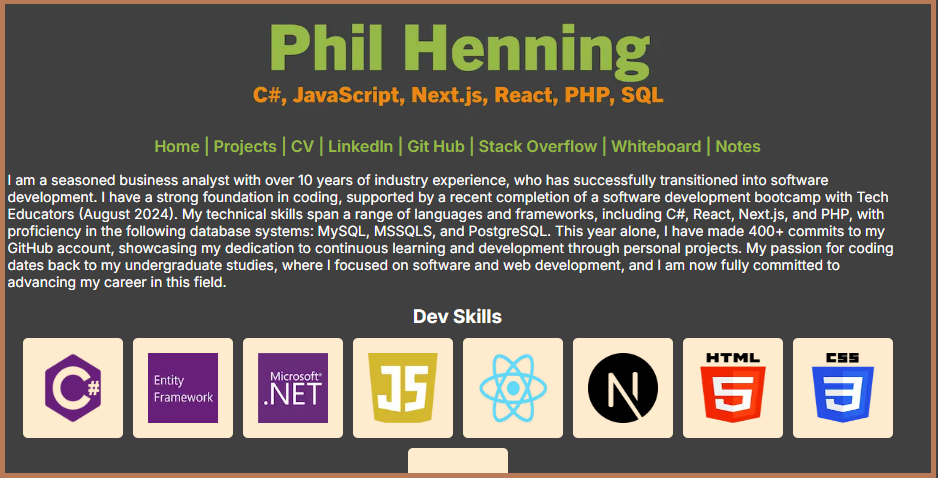
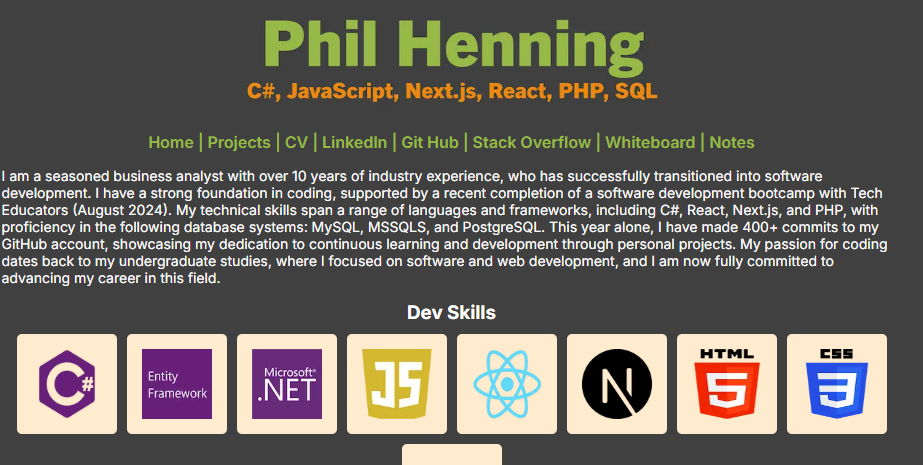
various style changes and inclusion of 'tools' and links to projects

Changed region(s): [[0.0, 0.0, 1.0, 1.0], [0.4247, 0.271, 0.8191, 0.3312], [0.1517, 0.271, 0.3944, 0.3312]]

diff --git a/src/app/(pages)/projects/page.js b/src/app/(pages)/projects/page.js
@@ -8,15 +8,21 @@ export default function Projects() {
           type="Project"
           language="Next.js"
           db="PostgreSQL"
+          projectManagementTool="Trello, "
+          whiteBoardingTool="Miro"
+          link="https://peasant.philhenning.co.uk"
           image="peasant_screenshot.png"
-          description="Built on the back of completing the Tech-Educators 'Software Development' bootcamp. Built using Next.js."
+          description="Built on the back of completing the Tech-Educators 'Software DeveloprojectManagementToolent' bootcamp. Built using Next.js."
         />
 
         <Project
           name="Race V2"
           type="Project"
-          language="C# & Entity Framework"
+          language="C#, Entity Framework"
           db="MSQLS"
+          projectManagementTool="Trello, "
+          whiteBoardingTool="Miro"
+          link=""
           image="car_race_screenshot.png"
           description="This has become my first 'real' C# project, and I am using it as a means of implementing things that I have learned.
 
@@ -28,7 +34,10 @@ export default function Projects() {
           name="C# Fundamentals (Pluralsight)"
           type="Course"
           language="C#"
-          db="none"
+          db=""
+          projectManagementTool=""
+          whiteBoardingTool=""
+          link=""
           image="c_sharp_fundamentals_screenshot.png"
           description="A tutorial that consisted of 11 lessons.
 
@@ -43,7 +52,10 @@ export default function Projects() {
           name="Race V1"
           type="Project"
           language="C#"
-          db="none"
+          db=""
+          projectManagementTool=""
+          whiteBoardingTool=""
+          link=""
           image="car_race_screenshot.png"
           description="This was the first incarnation of the 'Race' project."
         />
@@ -52,7 +64,10 @@ export default function Projects() {
           name="Workout"
           type="Project"
           language="C#"
-          db="none"
+          db=""
+          projectManagementTool=""
+          whiteBoardingTool=""
+          link=""
           image="workout_screenshot.png"
           description="	My first attempt at creating a project to solve a simple problem.
 
@@ -64,8 +79,11 @@ export default function Projects() {
         <Project
           name="C# for beginners (Bro Code)"
           type="Course"
-          language="C'"
-          db="none"
+          language="C#"
+          db=""
+          projectManagementTool=""
+          whiteBoardingTool=""
+          link=""
           image="brocode_screenshot.png"
           description="	A tutorial that consists of 50 lessons.
 
@@ -78,6 +96,9 @@ export default function Projects() {
           type="Proof of concept"
           language="PHP, HTML, CSS"
           db="MySQL"
+          projectManagementTool="Trello, "
+          whiteBoardingTool=""
+          link="http://treedata.co.uk"
           image="treedata_screenshot.png"
           description="This is a current Proof Of Concept for a commercial client (although undertaken without recompense).
 
@@ -89,7 +110,10 @@ export default function Projects() {
           name="philhenning.co.uk"
           type="Project"
           language="Next.js, HTML, CSS"
-          db="none"
+          db=""
+          projectManagementTool="Trello, "
+          whiteBoardingTool="Miro "
+          link=""
           image="philhenning_screenshot.png"
           description="The site you are currently looking at is a project of mine that I am still regularly working on."
         />
@@ -99,8 +123,11 @@ export default function Projects() {
           type="Project"
           language="PHP, HTML, CSS"
           db="MySQL"
+          projectManagementTool=""
+          whiteBoardingTool=""
+          link="https://snowcompare.philhenning.co.uk"
           image="snowcompare_screenshot.png"
-          description="This was my first piece of web development coursework at university. Primarily made to showcase my development skills."
+          description="This was my first piece of web developrojectManagementToolent coursework at university. Primarily made to showcase my developrojectManagementToolent skills."
         />
 
         <Project
@@ -108,8 +135,11 @@ export default function Projects() {
           type="Project"
           language="PHP, HTML, CSS"
           db="MySQL"
+          projectManagementTool=""
+          whiteBoardingTool=""
+          link="https://snowcompareshop.philhenning.co.uk"
           image="snowcompare_shop_screenshot.png"
-          description="This was my second piece of web development coursework at university. Building upon the first project above, the purpose of this project was to focus on an 'e-commerce' back-end."
+          description="This was my second piece of web developrojectManagementToolent coursework at university. Building upon the first project above, the purpose of this project was to focus on an 'e-commerce' back-end."
         />
 
         <Project
@@ -117,6 +147,9 @@ export default function Projects() {
           type="Proof of concept"
           language="PHP, HTML. CSS"
           db="MySQL"
+          projectManagementTool=""
+          whiteBoardingTool=""
+          link=""
           image="points_academy_screenshot.png"
           description=""
         />
@@ -126,6 +159,9 @@ export default function Projects() {
           type="Proof of concept"
           language="PHP, HTML, CSS"
           db="MySQL"
+          projectManagementTool=""
+          whiteBoardingTool=""
+          link=""
           image="portal_screenshot.png"
           description="Initially conceived as a short-term tool to help a brand new sales team get up to speed with learning the particulars of various products. It subsequently evolved into a more substantial long-term tool that was regularly used. This first iteration was purely static. The next iteration (SimplePortal System - see below) would take that next evolutionary step."
         />

diff --git a/src/app/components/Project.jsx b/src/app/components/Project.jsx
@@ -1,6 +1,7 @@
 import Image from "next/image"
+import Link from "next/link"
 
-export default function Project({name, type, language, db, description, image}){
+export default function Project({name, type, language, db, projectManagementTool, whiteBoardingTool, description, link, image}){
     return(
         <>
 
@@ -8,7 +9,7 @@ export default function Project({name, type, language, db, description, image}){
 
                 
                 <div className="ProjectRow">
-                    <div className="Name">{name}</div>
+                    <div className="Name"><h3>{name}</h3></div>
                 </div>
 
                 <div className="ProjectRow">
@@ -25,7 +26,11 @@ export default function Project({name, type, language, db, description, image}){
                         <div className="DetailContainer">     
                             <div className="DetailItem">Db: </div>
                             <div className="DetailInfo">{db}</div>
-                        </div> 
+                        </div>
+                        <div className="DetailContainer">     
+                            <div className="DetailItem">Tools:</div>
+                            <div className="DetailInfo">{projectManagementTool}{whiteBoardingTool}</div>
+                        </div>
 
 
   
@@ -37,14 +42,17 @@ export default function Project({name, type, language, db, description, image}){
                     </div>
 
                     <div className="ProjectColumn3">
-                        <Image
-                            src={`/Projects/${image}`}
-                            alt="snapshot of project"
-                            width={0}
-                            height={0}
-                            sizes="100vw"
-                            style={{ width: '100%', height: 'auto' }} // optional
-                        />
+                        
+                        <Link target="blank" href={`${link}`}>
+                            <Image
+                                src={`/Projects/${image}`}
+                                alt="snapshot of project"
+                                width={0}
+                                height={0}
+                                sizes="100vw"
+                                style={{ width: '100%', height: 'auto' }} // optional
+                            />
+                        </Link>
                     </div>
 
                 </div>

diff --git a/src/app/styles/global.css b/src/app/styles/global.css
@@ -38,6 +38,7 @@ p {
 h3{
   margin-top: 15px;
   margin-bottom: 5px;
+  color: #F0870F;
 }
 
 .PageLayout{
@@ -80,7 +81,8 @@ h3{
 .Item{
   height: 100px;
   width: 100px;
-  background-color:blanchedalmond;
+  background-color:#6b6767;
+  border: 1px solid rgba(255, 255, 255, 0.315);
   border-radius: 5px;
   display: flex;
   flex-direction: row;
@@ -97,23 +99,20 @@ h3{
   text-align: left;
   font-size: 14px;
   font-weight: 300;
-  border: 1px solid white;
+  border: 1px solid rgba(255, 255, 255, 0.315);
   border-radius: 5px;
   margin-bottom: 15px;
+  background-color:#6b6767;
 }
 
 .ProjectRow{
   display: flex;
   flex-direction: row;
   width: 100%;
-  flex-wrap: wrap;
 }
 
 .Name{
-  color: #F0870F;
-  font-size: 16px;
-  font-weight: 600;
-  padding-left: 25%;
+  padding-left: 22%;
   padding-top: 10px;
   margin-bottom: 2px;
 }
@@ -121,20 +120,19 @@ h3{
 .ProjectColumn1{
   display: flex;
   flex-direction: column;
-  align-items: flex-start;
   gap: 10px;
-  width: 25%;
+  width: 22%;
   padding-top: 5px;
   padding-left: 10px;
   padding-bottom: 10px;
-  padding-right: 5px;
+  padding-right: 10px;
 }
 
 .ProjectColumn2{
   display: flex;
   flex-direction: column;
   align-items: flex-start;
-  width: 43%;
+  width: 46%;
   padding-top: 5px;
   padding-left: 0px;
   padding-right: 10px;
@@ -144,19 +142,19 @@ h3{
 .ProjectColumn3{
   display: flex;
   flex-direction: column;
-  align-content: center;
+  align-content:flex-start;
   justify-content: left;
   width: 32%;
   padding-top: 5px;
   padding-left: 5px;
-  padding-right: 5px;
+  padding-right: 10px;
   padding-bottom: 10px;
 }
 
 .DetailContainer{
   display: flex;
   flex-direction: row;
-  align-items: center;
+  align-items: flex-start;
   width: 100%;
 }
 
@@ -166,7 +164,7 @@ h3{
 
 .DetailInfo{
   color: #96B946;
-  font-weight: 500;
+  font-weight: 600;
   width: 100%;
 }
 
